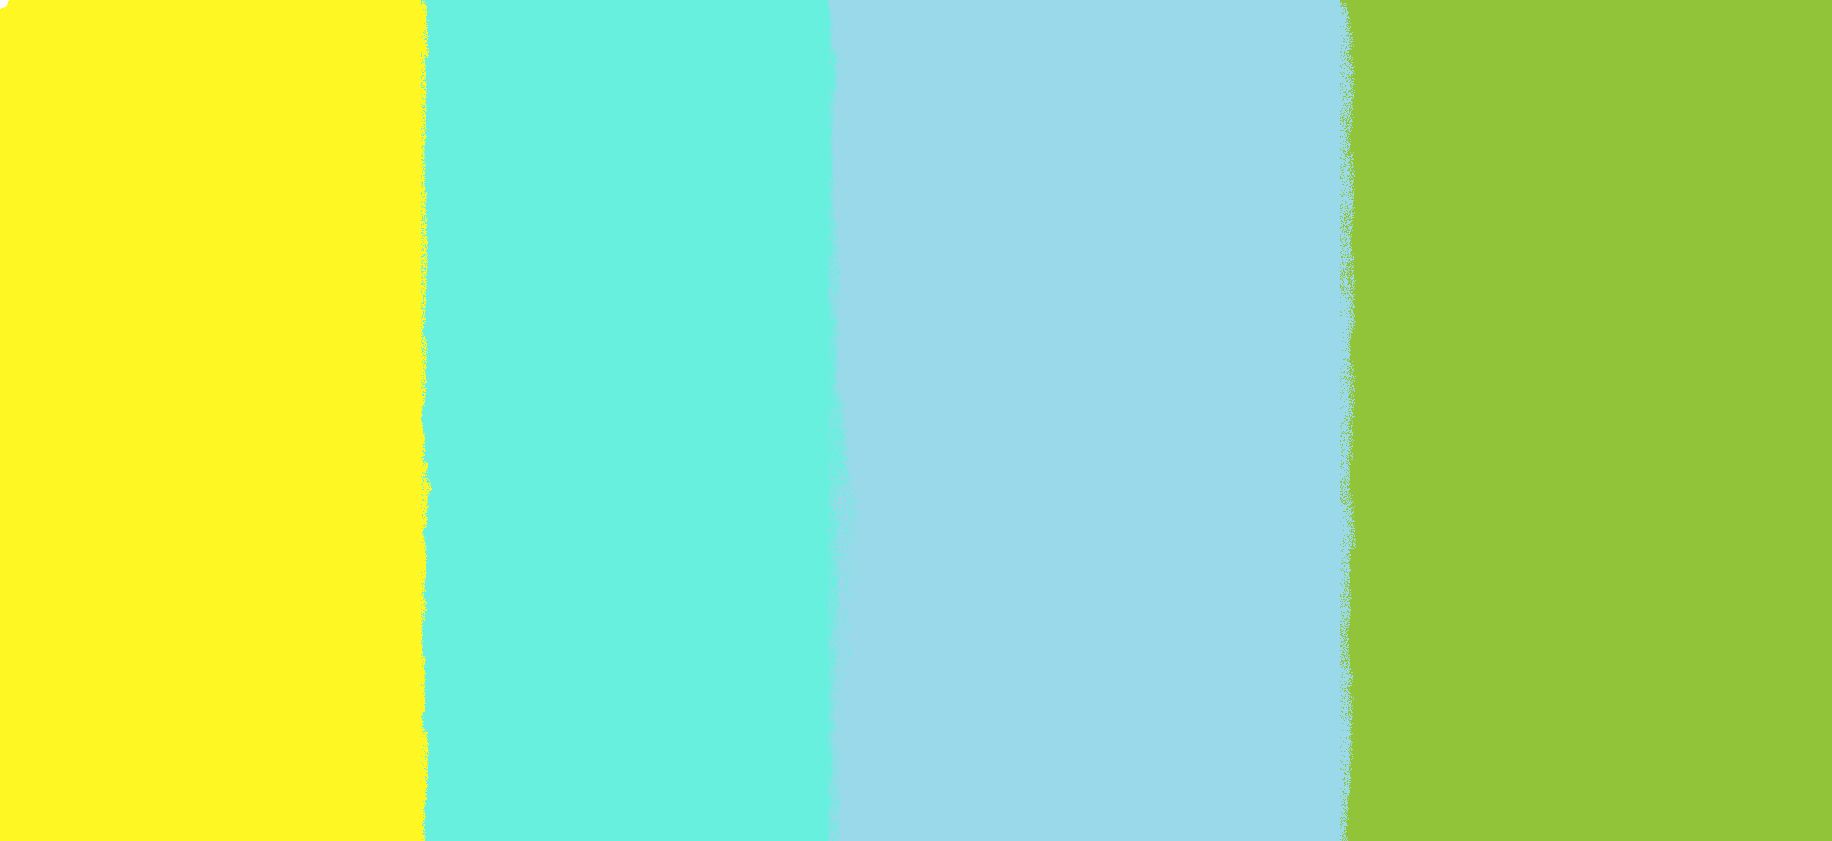
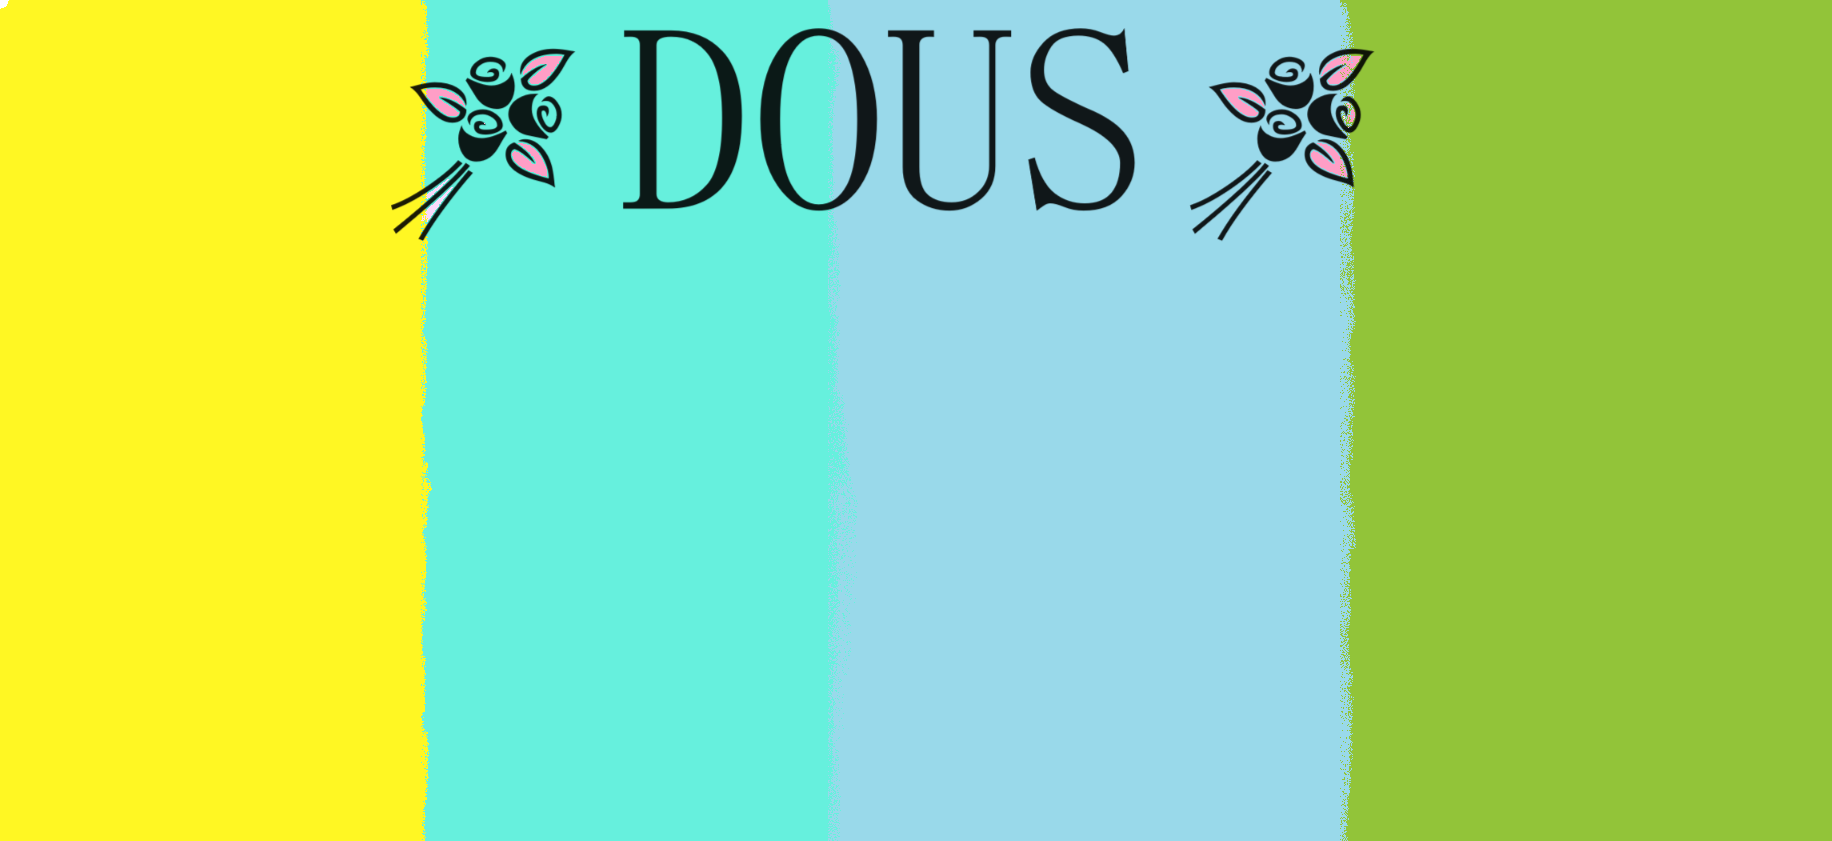
cambio de fondo de inicio,añadir url en las tarjetas(tab3),cambio de color de los botones en inicio

Changed region(s): [[0.3422, 0.0309, 0.6223, 0.2473], [0.6534, 0.0618, 0.7467, 0.2782], [0.2178, 0.0618, 0.3111, 0.2782]]

diff --git a/src/app/tab3/tab3.page.html b/src/app/tab3/tab3.page.html
@@ -1,6 +1,6 @@
 <ion-header>
   <ion-toolbar>
-    <ion-title>Título de la Página Secundaria</ion-title>
+    <ion-title>Información</ion-title>
   </ion-toolbar>
 </ion-header>
 
@@ -8,28 +8,48 @@
   
   <ion-card>
     <ion-card-header>
-      <ion-card-title>Tarjeta 1</ion-card-title>
+      <ion-card-title>Real Madrid</ion-card-title>
     </ion-card-header>
     <ion-card-content>
-      <ion-icon name="globe"></ion-icon>
+      <ion-icon name="ban-sharp"></ion-icon>
       <p>Es una entidad polideportiva con sede en Madrid, España. 
         Fue oficialmente registrada como club de fútbol por sus socios el 6 de marzo de 1902</p>
-      <ion-button expand="full" color="primary">Botón 1</ion-button>
+        <ion-button expand="full" color="secondary" (click)="abrirURL()">
+          WEB
+        </ion-button>
       <img src="assets/logo_madrid.png" alt="madrid">
     </ion-card-content>
   </ion-card>
 
   <ion-card>
     <ion-card-header>
-      <ion-card-title>Tarjeta 2</ion-card-title>
+      <ion-card-title>Villareal</ion-card-title>
     </ion-card-header>
     <ion-card-content>
       <ion-icon name="globe"></ion-icon>
-      <p>El Fútbol Club Barcelona (en catalán: Futbol Club Barcelona), conocido popularmente como Barça, 
-        es una entidad polideportiva con sede en Barcelona, Cataluña, España. Fue fundado como club de fútbol el 29 de noviembre de 1899 
-        y registrado oficialmente el 5 de enero de 1903</p>
-      <ion-button expand="full" color="secondary">Botón 2</ion-button>
-      
+      <p>El Villarreal Club de Fútbol, S. A. D. es un club de fútbol español de la ciudad de Villarreal, en la provincia de Castellón 
+        (Comunidad Valenciana), que milita en la Primera División, la máxima competición de fútbol en España. 
+        Disputa sus encuentros en el Estadio de la Cerámica, con una capacidad para 23.000 espectadores</p>
+      <ion-button expand="full" color="secondary" (click)="abrirURL2()">
+        WEB
+      </ion-button>
+      <img src="assets/logo_villareal.png" alt="madrid">
+    </ion-card-content>
+  </ion-card>
+  <ion-card>
+    <ion-card-header>
+      <ion-card-title>Real Sociedad</ion-card-title>
+    </ion-card-header>
+    <ion-card-content>
+      <ion-icon name="globe"></ion-icon>
+      <p>La Real Sociedad es un club de fútbol español con sede en San Sebastián, Guipúzcoa. Fue fundado el 7 de septiembre de 1909 
+        si bien sus orígenes datan del año 1904 con la antigua sociedad donostiarra Recreation Club,
+         de la cual varios integrantes pasaron a conformar en 1907 el San Sebastián 
+        Foot-Ball Club que daría después con la fundación del club bajo su denominación de Sociedad de Foot-Ball de San Sebastián.</p>
+        <ion-button expand="full" color="secondary" (click)="abrirURL3()">
+          WEB
+        </ion-button>
+      <img src="assets/logo_real.png" alt="madrid">
     </ion-card-content>
   </ion-card>
 
@@ -39,13 +59,13 @@
     </ion-fab-button>
     <ion-fab-list side="top">
       <ion-fab-button>
-        <img src="assets/logo_barça.png" alt="Barça">
+        <img src="assets/logo_real.png" alt="Barça">
       </ion-fab-button>
       <ion-fab-button>
         <img src="assets/logo_madrid.png" alt="madrid">
       </ion-fab-button>
       <ion-fab-button>
-        <img src="assets/logo_liga.jpg" alt="liga">
+        <img src="assets/logo_villareal.png" alt="liga">
       </ion-fab-button>
     </ion-fab-list>
   </ion-fab>

diff --git a/src/app/inicio/inicio.page.scss b/src/app/inicio/inicio.page.scss
@@ -1,14 +1,34 @@
+.header{
+    text-align: center;
+}
 .boton{
     position: absolute;
-    z-index: 1; 
     top: 50%;
     left: 50%;
     transform: translate(-50%, -50%);
+    
 }
 .boton2{
     position: absolute;
-    z-index: 1; 
     top: 60%;
     left: 50%;
     transform: translate(-50%, -50%);
 }
+.fondo {
+    width: 100%;
+    height: 100vh;
+    background-image: url("../../assets/fondo.png"); /* Ruta a tu imagen de fondo */
+    background-size: cover; /* Ajusta la imagen de fondo para cubrir el contenedor */
+    background-position: center; /* Centra la imagen de fondo */
+    position: absolute;
+    top: 0;
+    left: 0;
+  }
+  
+  /* Estilos específicos para dispositivos móviles (puedes ajustar estos valores según tus necesidades) */
+  @media (max-width: 768px) {
+    .fondo {
+      background-size: contain; /* Ajusta la imagen de fondo para contener el contenedor */
+    }
+  }
+  

diff --git a/src/app/tabs/tabs.page.html b/src/app/tabs/tabs.page.html
@@ -2,18 +2,18 @@
 
   <ion-tab-bar slot="bottom">
     <ion-tab-button tab="tab1" href="/tabs/tab1">
-      <ion-icon aria-hidden="true" name="triangle"></ion-icon>
-      <ion-label>Tab 1</ion-label>
+      <ion-icon name="football-outline"></ion-icon>
+      <ion-label> Max.Goleadores</ion-label>
     </ion-tab-button>
 
     <ion-tab-button tab="tab2" href="/tabs/tab2">
-      <ion-icon aria-hidden="true" name="ellipse"></ion-icon>
-      <ion-label>Tab 2</ion-label>
+      <ion-icon name="accessibility-sharp"></ion-icon>
+      <ion-label>Max.Asistidores</ion-label>
     </ion-tab-button>
 
     <ion-tab-button tab="tab3" href="/tabs/tab3">
-      <ion-icon aria-hidden="true" name="square"></ion-icon>
-      <ion-label>Tab 3</ion-label>
+      <ion-icon name="information-circle-sharp"></ion-icon>
+      <ion-label>Informacion</ion-label>
     </ion-tab-button>
   </ion-tab-bar>
 

diff --git a/src/app/datos/datos.page.html b/src/app/datos/datos.page.html
@@ -1,7 +1,7 @@
-<ion-header [translucent]="true">
+<ion-header [translucent]="true" class="header">
   <ion-toolbar>
     <ion-buttons slot="start">
-      <ion-back-button defaultHref="/inicio">VOLVER</ion-back-button>
+      <ion-back-button defaultHref="/inicio" class="miboton">VOLVER</ion-back-button>
     </ion-buttons>
     <ion-title>CLASIFICACIÓN</ion-title>
   </ion-toolbar>
@@ -11,8 +11,10 @@
   <ion-label>AÑO: {{ ANIO }}</ion-label>
   <ion-label><p>CAMPEON: {{ CAMPEON }}</p></ion-label>
   <img src="assets/logo_liga.jpg" alt="Mi Imagen" class="img">
+  
   <ion-list >
     <ion-item *ngFor="let e of Equipo" [class.list]="e.colorLinea === 'azul'" [class.list2]="e.colorLinea === 'rojo'">
+      
       <ion-avatar slot="start">
         <img [src]="e.imagen" alt="{{ e.nombre }}">
       </ion-avatar>

diff --git a/src/app/inicio/inicio.page.html b/src/app/inicio/inicio.page.html
@@ -1,16 +1,13 @@
-<ion-header [translucent]="true">
+<ion-header class="header">
   <ion-toolbar>
     <ion-title>DOUS</ion-title>
   </ion-toolbar>
 </ion-header>
 
 <ion-content [fullscreen]="true">
-  <ion-header collapse="condense">
-    <ion-toolbar>
-      <ion-title size="large">inicio</ion-title>
-    </ion-toolbar>
-  </ion-header>
-  <img src="assets/fondo.png"/>
-  <ion-button routerLink="/tabs" class="boton">ESTADISTICAS</ion-button>
-  <ion-button routerLink="/datos" class="boton2">CLASIFICACION</ion-button>
+<div class="fondo">
+
+  <ion-button color="sucess" routerLink="/tabs" class="boton">ESTADISTICAS</ion-button>
+  <ion-button color="danger" routerLink="/datos" class="boton2">CLASIFICACION</ion-button>
+</div>
 </ion-content>

diff --git a/src/theme/variables.scss b/src/theme/variables.scss
@@ -74,7 +74,17 @@
   --ion-color-light-contrast-rgb: 0, 0, 0;
   --ion-color-light-shade: #d7d8da;
   --ion-color-light-tint: #f5f6f9;
+
+  /**micolor**/
+  --ion-color-micolor: #30c57f;
+	--ion-color-micolor-rgb: 48,197,127;
+	--ion-color-micolor-contrast: #000000;
+	--ion-color-micolor-contrast-rgb: 0,0,0;
+	--ion-color-micolor-shade: #2aad70;
+	--ion-color-micolor-tint: #45cb8c;
 }
+
+  
 
 @media (prefers-color-scheme: dark) {
   /*

diff --git a/src/app/tab3/tab3.page.ts b/src/app/tab3/tab3.page.ts
@@ -9,5 +9,16 @@ import { Component } from '@angular/core';
 export class Tab3Page {
   
   constructor() {}
-
+  abrirURL() {
+    const url = 'https://www.realmadrid.com';
+    window.open(url, '_blank'); 
+  }
+  abrirURL2() {
+    const url = 'https://villarrealcf.es';
+    window.open(url, '_blank'); 
+  }
+  abrirURL3() {
+    const url = 'https://www.realsociedad.eus';
+    window.open(url, '_blank'); 
+  }
 }

diff --git a/src/app/tab1/tab1.page.scss b/src/app/tab1/tab1.page.scss
@@ -1,0 +1,15 @@
+.list {
+    background-image: url('../../assets/fondo_datos.png');
+    background-size: cover; 
+    background-repeat: no-repeat; 
+    background-position: center center; 
+    position: relative;
+    z-index: 0; 
+    height: 100vh; 
+  }
+  
+  ion-content {
+    position: relative;
+    z-index: 1; 
+  }
+  

diff --git a/src/app/tab1/tab1.page.html b/src/app/tab1/tab1.page.html
@@ -7,8 +7,8 @@
   </ion-toolbar>
 </ion-header>
 
-<ion-content class="ion-padding">
-  <ion-list>
+<ion-content class="content">
+  <ion-list class="list">
   <ion-item *ngFor="let jugador of JUGADORES">
     <ion-avatar slot="start">
       <img [src]="jugador.imagen" alt="{{ jugador.nombre }}">

diff --git a/src/app/tab2/tab2.page.html b/src/app/tab2/tab2.page.html
@@ -1,7 +1,7 @@
 <ion-header [translucent]="true">
   <ion-toolbar>
     <ion-title>
-      Tab 2
+      Max.Asistidores
     </ion-title>
   </ion-toolbar>
 </ion-header>

diff --git a/src/app/datos/datos.page.scss b/src/app/datos/datos.page.scss
@@ -10,3 +10,9 @@
 .list2{
     border-left: 5px solid red;
 }
+.miboton{
+    background-color: var(--ion-color-micolor);
+}
+.header{
+    text-align: center;
+}

diff --git a/src/app/tabs/tabs.page.ts b/src/app/tabs/tabs.page.ts
@@ -8,5 +8,5 @@ import { Component } from '@angular/core';
 export class TabsPage {
 
   constructor() {}
-
+  
 }
